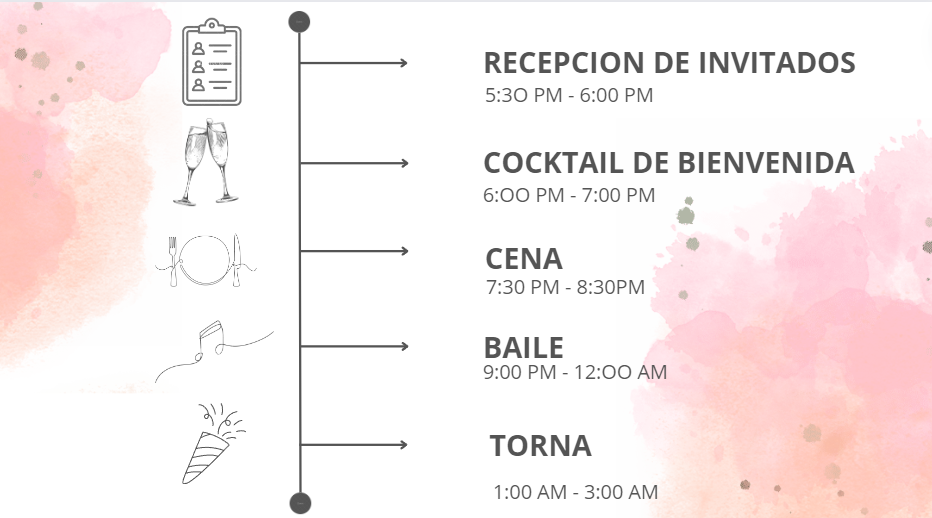
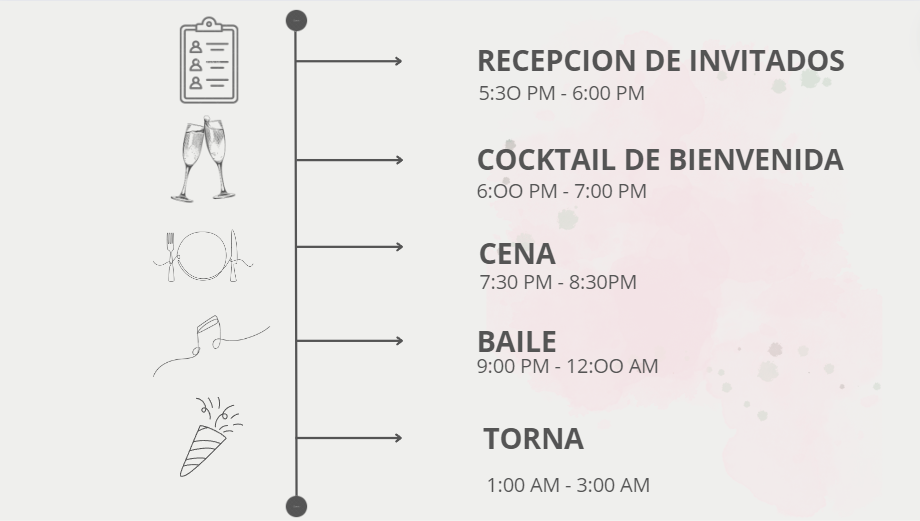
cambios a html finales

diff --git a/wedding.html b/wedding.html
@@ -17,7 +17,7 @@
     
       <header>
         <div>
-        <img class="inicio" src="images/inicio2.png" alt="Nos casamos">
+        <img class="inicio" src="images/inicio4.png" alt="Nos casamos">
         </div>
         <div >
             <audio src="images/Taylor Swift - Love Story_8xg3vE8Ie_E.mp3" loop autoplay controls></audio>
@@ -92,13 +92,13 @@
         <h4>Sergio Rubén Arriaga Rodriguez</h4>
         <h4>Maria Isabel Perales Aguilar</h4>
         
-        <img class="rubenyyatzil" src="images/YatzilyRubén2.png" alt="yatzil&Ruben">
+        <img class="rubenyyatzil" src="images/yatzilyruben.jpeg" alt="yatzil&Ruben">
     </section>
     <section>
         <h1>Recepcion</h1>
         <h4>Fecha y Hora</h4>
         <div>
-        <img class="noshadown" src="images/fechayhora3.png" alt="fecha y hora">
+        <img class="noshadown" src="images/fechayhora2.png" alt="fecha y hora">
         </div>
     </section>
 
@@ -136,7 +136,7 @@
             <section>
             <h1>Codigo de vestimenta</h1>
             <div>
-            <img class="icons" src="images/codigovestimenta9.png" alt="codigo de vestimenta">
+            <img class="icons" src="images/codigovestimenta1.png" alt="codigo de vestimenta">
             </div>
             <p>Gala</p>
             
@@ -144,8 +144,10 @@
           <section>
             <h1>Itinerario</h1>
             <div>
-           <img class="itinerario" src="images/itinerario3.png" alt="itinerario">
+           <img class="itinerario" src="images/itinerario4.png" alt="itinerario">
            </div>
+          </section>
+          <section id="noNiños">
            <h4>"Mamá y Papá merecen una noche libre" </h4>
             <h4>RESPETUOSAMENTE</h4>
             <h4 >NO NIÑOS</h4>
@@ -190,27 +192,29 @@
               
               <h1>Regalo</h1>
               <div>
-                <img src="images/featured_seasonal_and_gifts_FILL0_wght400_GRAD0_opsz24.png" alt="">
+                <img class="presentIcons" src="images/gift.png" alt="">
                 </div>
               <p>Tu presencia es nuestro mayor regalo, pero si aun asi deseas obsequiarnos algo, puedes hacerlo
                 en efectivo o tranferencia
               </p>
               <div>
-              <img src="images/mail_FILL0_wght400_GRAD0_opsz24.png" alt="">
-              <img src="images/credit_card_FILL0_wght400_GRAD0_opsz24.png" alt="">
+              <img class="presentIcons" src="images/envelope.png" alt="">
+              <img class="presentIcons" src="images/creditcard.png" alt="">
+              </div>
 
-              <h2>Ruben Uziel Arriaga Perales</h2>
+              <div>
+              <h4>Ruben Uziel Arriaga Perales</h4>
               <h4>Santander</h4>
               <span hidden id="url">5579100376147516</span>
               <button id="botonCopiar" onclick="copyBankAccount()">Copiar numero de Cuenta</button>
               <p>O</p>
-              <h2>Cristina Yatzil Aviña Adán</h2>
+              <h4>Cristina Yatzil Aviña Adán</h4>
               <h4>BBVA</h4>
               <span hidden id="url2">4152313993353049</span>
               <button id="botonCopiar2" onclick="copyBankAccount2()">Copiar numero de Cuenta</button>
-               
+              </div>
 
-            </div>
+            
             </section>
             <section id="templo">
                 <div id="vacio"></div>

diff --git a/style.css b/style.css
@@ -8,7 +8,7 @@ body{
     align-items: center;
     justify-content: center;
     padding:0%;
-    background-color: #EFEFED;
+    
     
 
 }
@@ -21,15 +21,18 @@ h1{
 }
 
 #regalo{
-    background-image: url(images/mancha2.png);
+    background-image: url(images/mancha3.png);
 }
 
 p{
     font-family: 'Comfortaa', sans-serif;
     text-align: center;
-    font-size: 14px;
+    font-size: 16px;
     padding:0px;
     color: #22333b; 
+    margin-bottom: 35px;
+    margin-right: 35px;
+    margin-left: 35px;
     
 }
 
@@ -49,11 +52,17 @@ a{
     text-decoration:none;
     font-size: 20px;
     padding:0px;
-    color: white;   
+    color: #22333b;   
 
 }
 div{
     text-align: center;
+}
+#noNiños{
+    margin-top: 60px;
+    margin-bottom: 60px ;
+    margin-right: 35px;
+    margin-left: 35px;
 }
 
 .button{
@@ -109,6 +118,11 @@ img{
 .icons{
     max-width: 30%;
     box-shadow: none;
+}
+.presentIcons{
+    background-color: #D1DFEC;
+    padding: 5px;
+    border-radius: 15px;
 }
 
 .noshadown{
